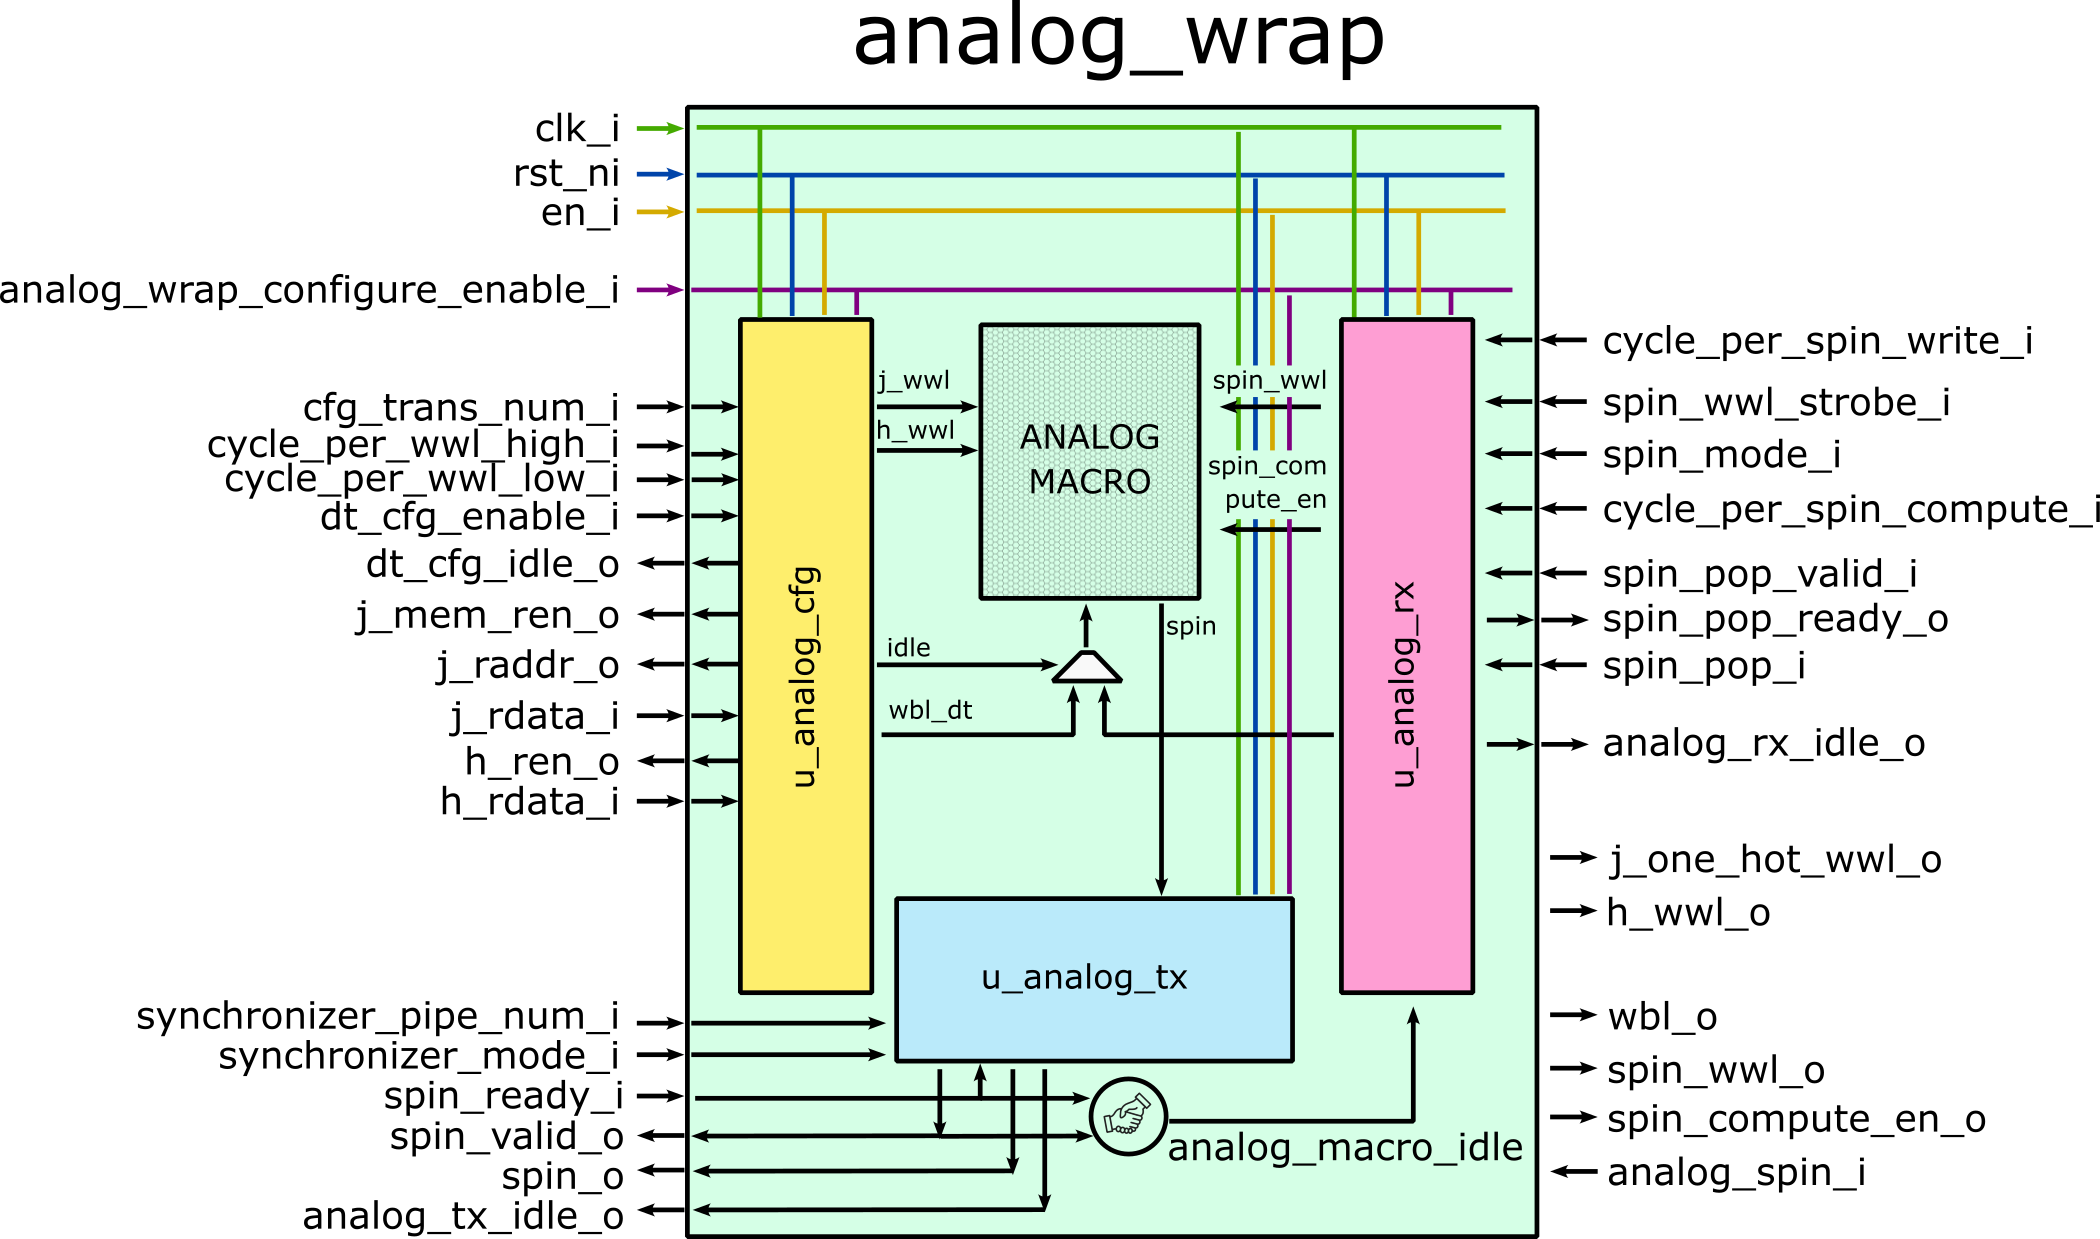
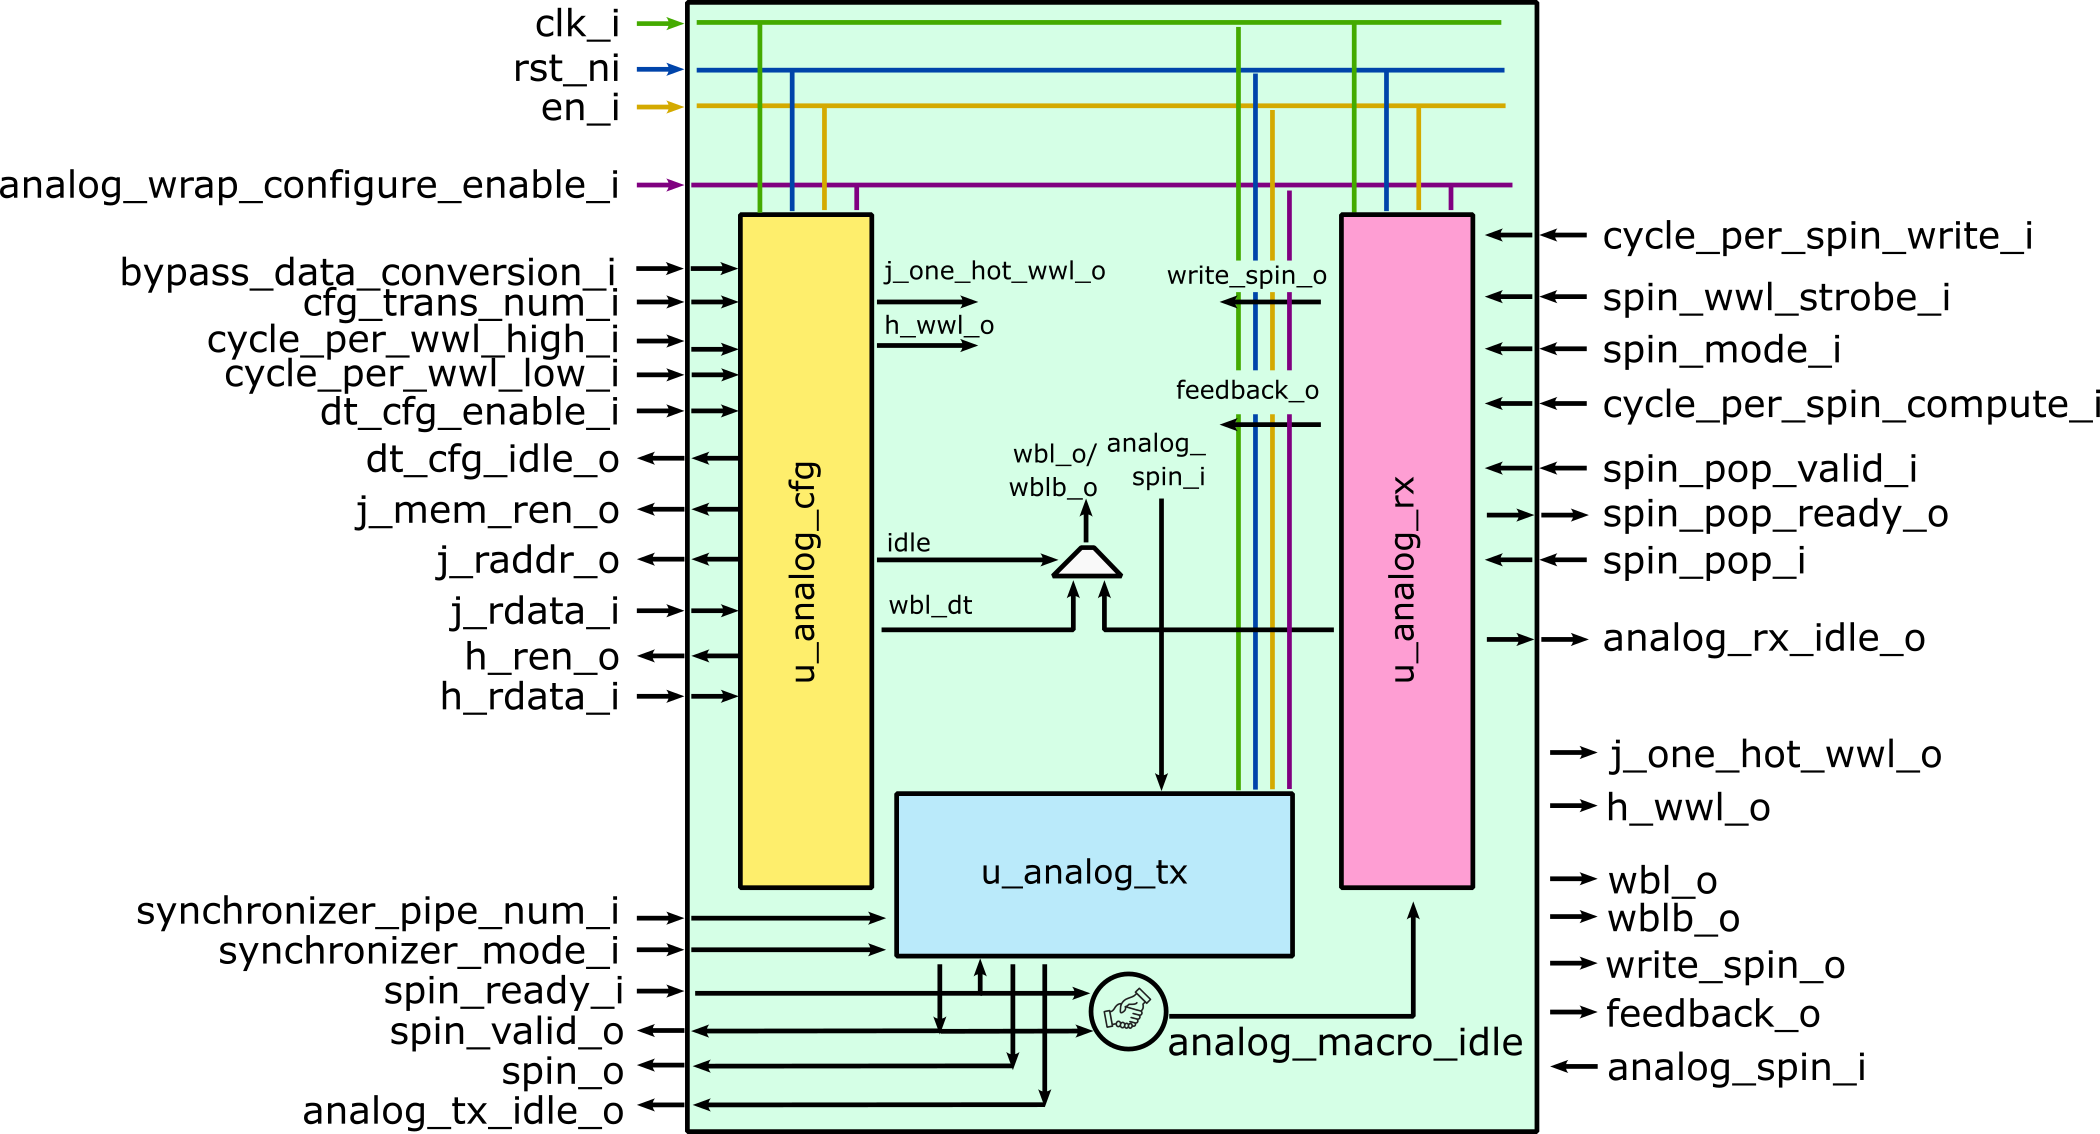
add bypass_data_conversion_i to the analog wrap interface

diff --git a/hw/rtl/analog_macro_wrap/README.md b/hw/rtl/analog_macro_wrap/README.md
@@ -60,6 +60,8 @@ The latency from having a spin pop handshake to having *spin_valid_o=1* is (cycl
 
 *cycle_per_spin_compute_i*: [COUNTER_BITWIDTH-1:0] cycle number before synchronization happens (default: the maximal value).
 
+*bypass_data_conversion_i*: whether to turn off the specific data conversion on J/h onloading (default: 0).
+
 *spin_wwl_strobe_i*: [NUM_SPIN-1:0] the spin WWL strobe. For every spin onloading, spin WWL is set as *spin_wwl_strobe*.
 
 *spin_mode_i*: [NUM_SPIN-1:0] the spin mode input of the analog macro.

diff --git a/hw/rtl/analog_macro_wrap/CHANGELOG.md b/hw/rtl/analog_macro_wrap/CHANGELOG.md
@@ -2,7 +2,7 @@
 - Initial release of RTL and a testbench.
 
 ## 0.1.1 - 2026-1-12
-- Add convertion for J/h from 2's complemented format to specific format.
+- Add convertion for J/h from 2's complemented format to specific format (can be turn off).
 - Remove signal *synchronizer_mode_i* as it is not useful.
 - Add signal *wbl_floating_o* and *spin_feedback_o* which are newly required by the analog macro.
 - Spread spin output to the analog macro in WBL. Its location is configued by a new parameter *SPIN_WBL_OFFSET*.
